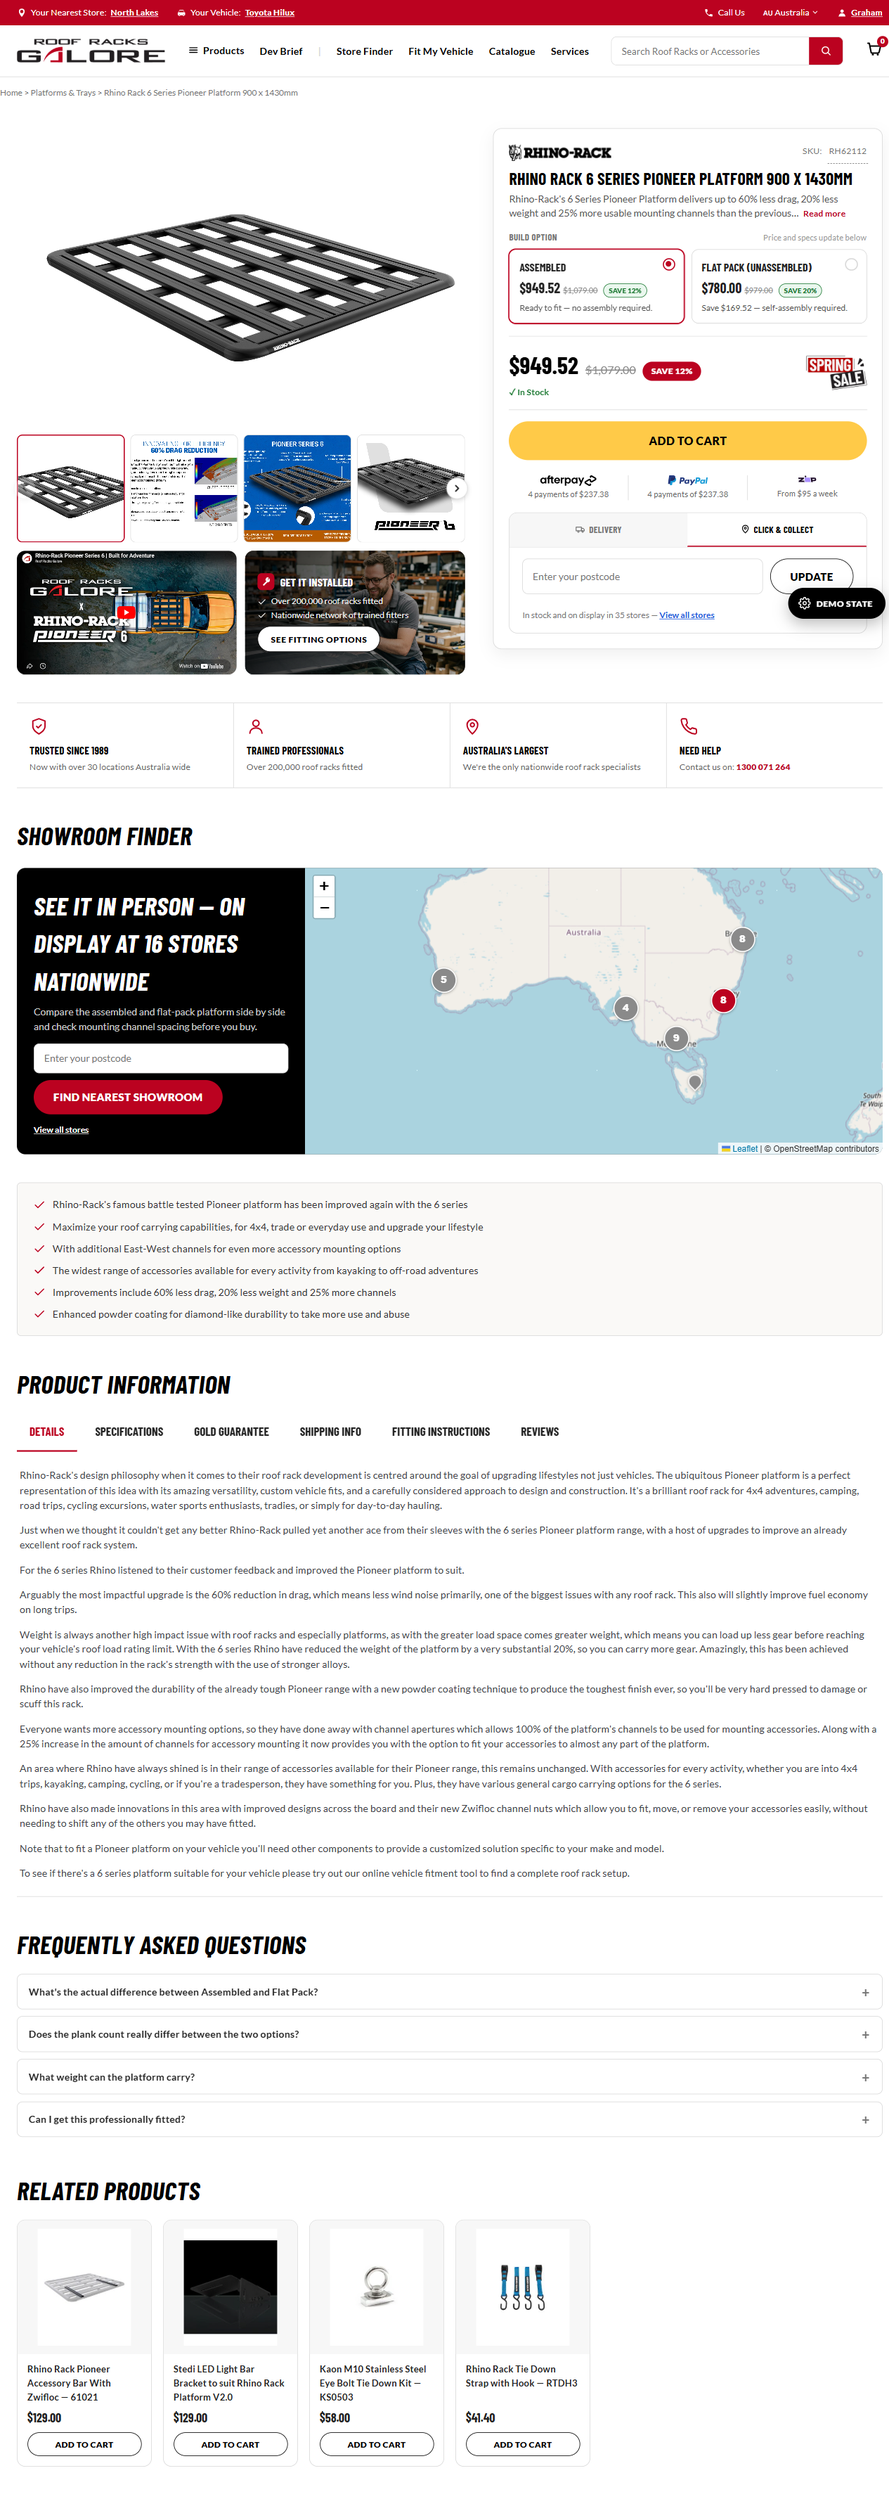
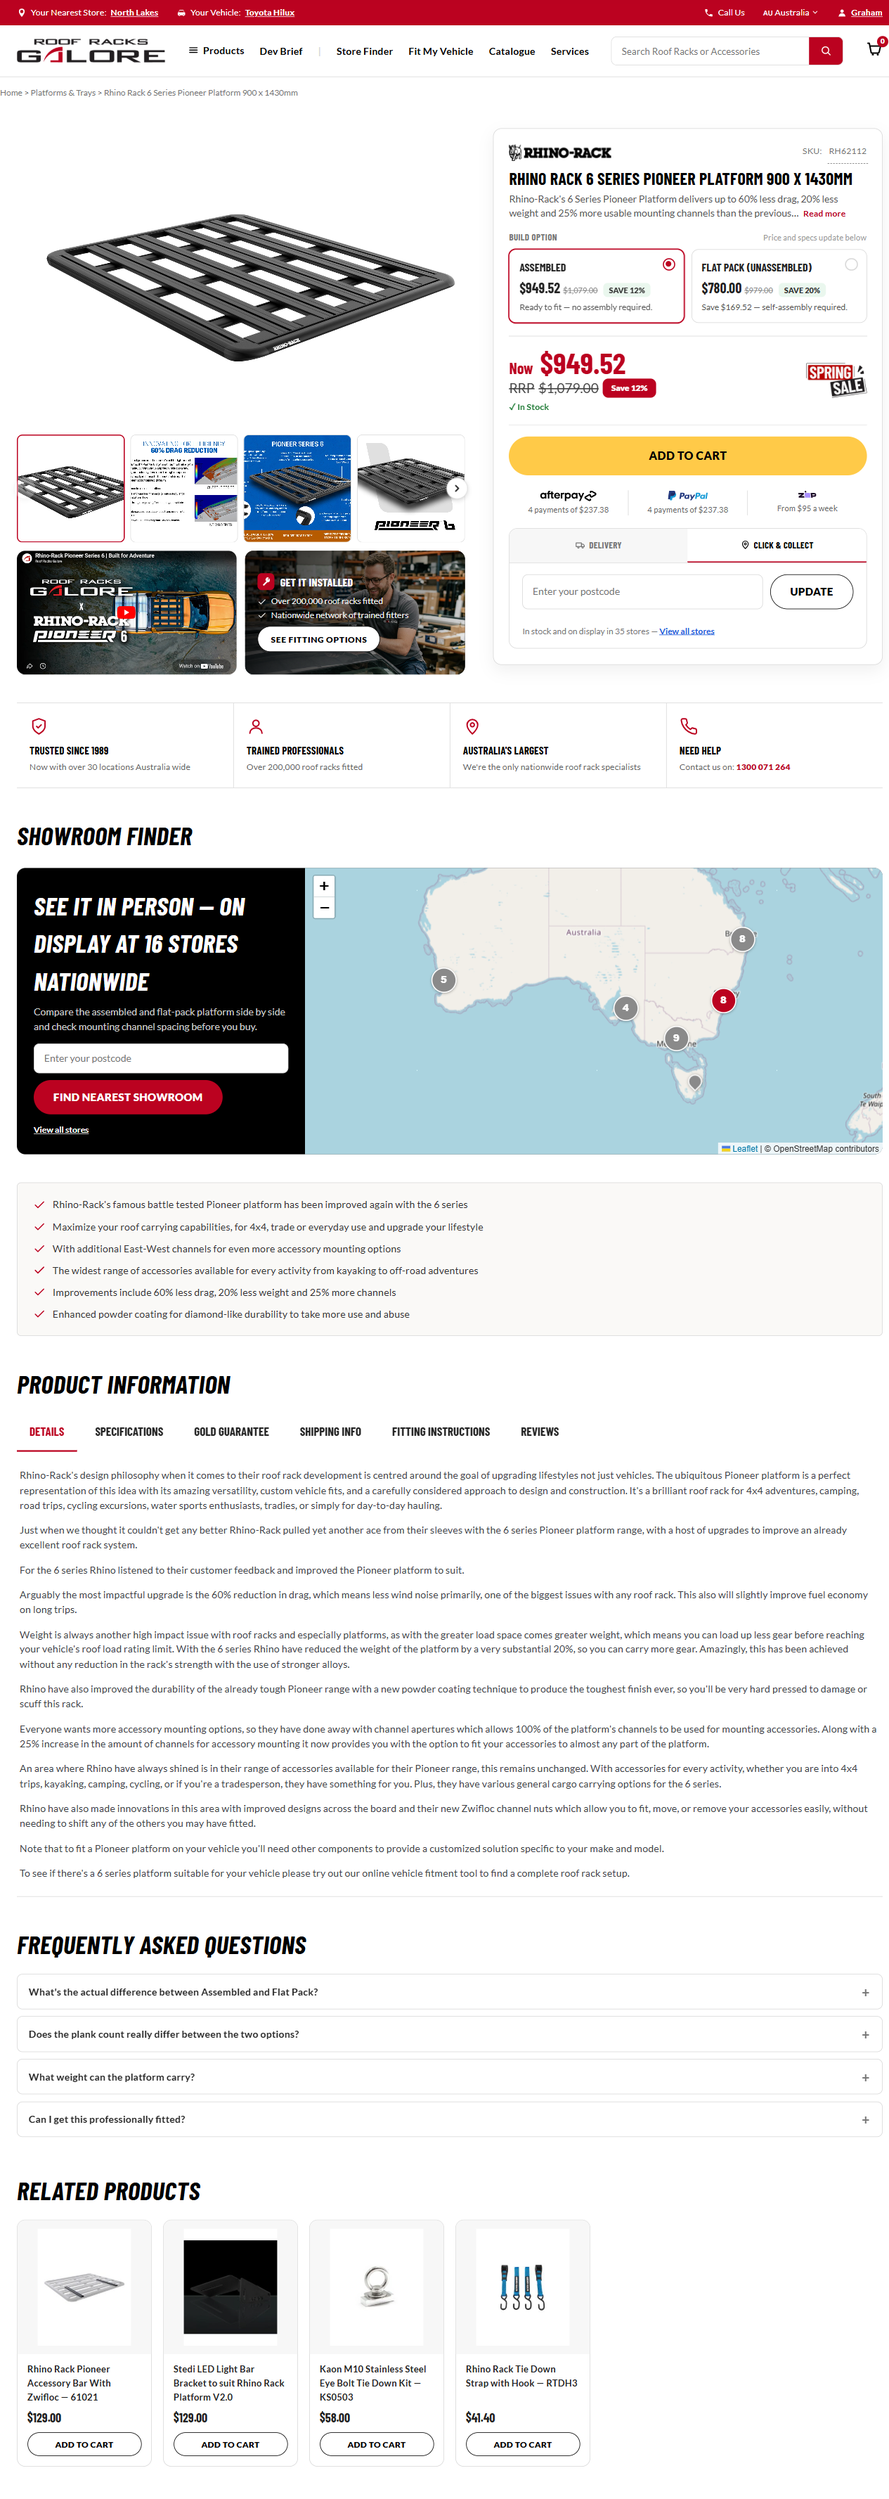
Re-sync DEVELOPER-BRIEF.md with everything built since the last mass-capture pass
Refreshes doc sections/screenshots left stale by features that shipped
after the last screenshot pass but before their own docs caught up:

- New §7.30 Price Block entry (Now/RRP/Save redesign had a
  PAGE-GLOSSARY.md entry but no Component Library writeup at all)
- All 10 §6 Page Layout screenshots recaptured (predated the pricing
  redesign, still showed the old single-line price)
- §7.16 Fitted Photos Gallery rewritten for the two-view (grid ->
  detail) slide-out drawer; text still described the old flat grid
- §7.28 Short description rewritten for the animated expand/collapse
  behaviour; text still described the old tab-jump
- §7.26/§7.27 Sticky Mobile Bar / Persistent Bar each gained a second
  screenshot showing the non-fitment-template variant
- §7.20 Package Contents (Grouped-Bundle): real screenshot replacing
  the long-held screenshot-pending.svg placeholder

Real bug found and fixed while recapturing §7.2/§7.3: the Rack Fit
Guarantee badge is an <svg>, and this browser doesn't reflect the
boolean `hidden` IDL property to the content attribute on SVG elements,
so `badge.hidden = ...` silently no-op'd and the badge stayed visible
in every fitment state instead of only "Fits." Fixed with
`toggleAttribute('hidden', ...)`, which works regardless of namespace.

Changed region(s): [[0.5549, 0.0937, 1.0, 0.2499]]

diff --git a/prototypes/_shared/shared.js b/prototypes/_shared/shared.js
@@ -104,7 +104,12 @@ function applyFitmentState(state, vehicle) {
     // actually confirmed to fit — hide it for "confirm your vehicle"/"doesn't fit".
     const badge = el.nextElementSibling;
     if (badge && (badge.classList.contains('rack-fit-badge') || badge.classList.contains('rack-fit-badge-icon'))) {
-      badge.hidden = state !== 'fits';
+      // toggleAttribute, not `badge.hidden = ...`: badge is an <svg>, and SVGElement doesn't
+      // reflect the boolean `hidden` IDL property to the content attribute in every browser —
+      // setting `.hidden` silently no-ops, leaving [hidden]{display:none} never applied and
+      // the badge visible in every fitment state (found 2026-09-12 while recapturing §7.2/7.3
+      // screenshots — this had never actually hidden in "doesn't fit"/"confirm your vehicle").
+      badge.toggleAttribute('hidden', state !== 'fits');
     }
   });
   // Add to Cart stays plain "Add To Cart" / primary style in every fitment state

diff --git a/DEVELOPER-BRIEF.md b/DEVELOPER-BRIEF.md
@@ -871,7 +871,7 @@ Every widget named in `PAGE-GLOSSARY.md`, one entry each, covering what it does,
 
 **Purpose:** tells the shopper immediately whether this exact product fits their saved vehicle — the single most important piece of information on a fitment-driven product page, so it sits as high as possible.
 
-**Typography:** heading uses the page's `h1`-adjacent styling within the card (bold, black); body text is standard Lato body copy. Card background/accent colour comes from the state tokens in Section 5 (`--rrg-fits`/`--rrg-unknown`/`--rrg-nofit`).
+**Typography:** heading is a bold black `<strong>` within the card, not a real heading tag; body text is standard Lato body copy. Card background/accent colour comes from the state tokens in Section 5 (`--rrg-fits`/`--rrg-unknown`/`--rrg-nofit`).
 
 **Region differences:** none — this is driven by the shopper's saved vehicle, not their region.
 
@@ -893,9 +893,9 @@ Every widget named in `PAGE-GLOSSARY.md`, one entry each, covering what it does,
 
 **Purpose:** reassures the shopper their fitment purchase is backed by a real guarantee, right at the point of the fitment decision.
 
-**Typography:** icon only, no visible text — the caption ("Peace of mind with our FREE Nationwide Rack Guarantee") lives in a `title` tooltip, not on-page text (client's explicit call — visible text read as too much).
+**Typography:** icon only, no visible text — the caption ("Peace of mind with our FREE Nationwide Rack Guarantee") lives in a `title` tooltip, not on-page text (client's explicit call — visible text read as too much). Hand-drawn placeholder vector icon (shield + checkmark), swappable for real client-approved artwork later; colour is tied to the `--rrg-fits` green token, the same token the Fitment Status card itself uses for a confirmed match.
 
-**Region differences:** none confirmed yet — not part of the Region Selector cascade.
+**Region differences:** none — the badge's colour is tied to the fitment-state token (`--rrg-fits`), not the region skin, so it doesn't vary by region.
 
 **Links:** clicking the badge (all 3 instances) jumps to and opens the Gold Guarantee tab, same tab-jump pattern as the star-rating badge (`data-jump-tab`/`initTabJumpLinks()`, see 7.17). The `title` tooltip is unchanged.
 
@@ -1127,13 +1127,15 @@ Every widget named in `PAGE-GLOSSARY.md`, one entry each, covering what it does,
 
 **Region differences:** none — not part of the Region Selector cascade.
 
-**Links:** "View All In-store Fitments (N)" is a real in-page link (jumps to/expands the full set); the CTA copy itself is fitment-count-aware, driven by Get It Installed (7.14).
+**Links:** "View All In-store Fitments (N)" opens a real two-view slide-out drawer (not an in-page expand) — a photo grid, then a per-fitment detail view when a photo is clicked. The CTA copy itself is fitment-count-aware, driven by Get It Installed (7.14).
 
 **States:**
 - Location (full page, red arrow): ![Fitted Photos Gallery — location](dev-brief-assets/fit-gallery-location.png)
 - Detail, full-width/non-red default (7 photos visible; nested placement shows 4): ![Fitted Photos Gallery — detail](dev-brief-assets/fit-gallery-detail.png)
+- Slide-out drawer, grid view (all 283 photos, opened via "View All In-store Fitments"): ![Fitted Photos Gallery — slide-out grid view](dev-brief-assets/fit-gallery-slideout-grid.png)
+- Slide-out drawer, detail view (clicking any grid photo opens this: "Browse Fitment N of 283 / Fit #" bar, Prev/Next, main photo + 4 thumbnails, the page's own real product title + vehicle line, and a live Rack Components list read from the page's own Package Contents rows): ![Fitted Photos Gallery — slide-out detail view](dev-brief-assets/fit-gallery-slideout-detail.png)
 
-**Notes:** a "Red background (live-site style)" toggle exists for stakeholder conversations expecting the old red-background treatment — default is non-red, per client direction.
+**Notes:** a "Red background (live-site style)" toggle exists for stakeholder conversations expecting the old red-background treatment — default is non-red, per client direction. Every fitment in the detail view shows the *same* real vehicle/components (no fabricated variety across vehicles) — the components list is read live from the page's own What's Included rows so the two can't drift apart; the detail view's "other angle" thumbnails reuse other real photos from the same 16-photo set rather than inventing new ones.
 
 ---
 
@@ -1218,7 +1220,7 @@ Each template also carries a `FAQPage` JSON-LD structured-data block (in `<head>
 
 **States:**
 - Vehicle-Specific (placeholder ×1 quantities — no real per-component quantity data exists yet): ![Package Contents — Vehicle-Specific](dev-brief-assets/package-contents-vehicle.png)
-- Grouped-Bundle (**real quantities**, taken verbatim from the live site's own "Bundle Includes" list): ![Package Contents — Grouped-Bundle](dev-brief-assets/screenshot-pending.svg) *(previous capture showed the Demo State Panel visible in frame — held pending the final mass-capture pass, see 0.1 rule 2)*
+- Grouped-Bundle (**real quantities**, taken verbatim from the live site's own "Bundle Includes" list): ![Package Contents — Grouped-Bundle](dev-brief-assets/package-contents-bundle.png)
 
 ---
 
@@ -1308,7 +1310,9 @@ Each template also carries a `FAQPage` JSON-LD structured-data block (in `<head>
 
 **Links:** none beyond the Add to Cart action itself.
 
-**States:** ![Sticky Mobile Bar](dev-brief-assets/sticky-mobile-bar.png) — on Vehicle-Specific this bar's fitment box drops to icon-only (no room once sharing space with the product thumbnail/name block added 2026-09-11).
+**States:**
+- Vehicle-Specific (thumbnail + name sharing space with a condensed, icon-only fitment box — no room for the full fitment label once both are present): ![Sticky Mobile Bar — Vehicle-Specific](dev-brief-assets/sticky-mobile-bar.png)
+- Other 4 templates (truncated name + price + Add to Cart, no fitment box): ![Sticky Mobile Bar — no fitment box](dev-brief-assets/sticky-mobile-bar-name.png)
 
 ---
 
@@ -1324,7 +1328,9 @@ Each template also carries a `FAQPage` JSON-LD structured-data block (in `<head>
 
 **Links:** Add to Cart action on every template; Vehicle-Specific's instance also carries the Rack Fit Guarantee badge's click-to-jump-to-Gold-Guarantee-tab action (see 7.3).
 
-**States:** ![Persistent Bar](dev-brief-assets/persistent-bar-detail.png) — Vehicle-Specific: product thumbnail + truncated name sharing space with a condensed fitment box (icon + short label, roughly half its full-detail width) + Rack Fit Guarantee badge. The other 4 templates: thumbnail + truncated name + price + Add to Cart only, no fitment box or badge.
+**States:**
+- Vehicle-Specific: product thumbnail + truncated name sharing space with a condensed fitment box (icon + short label, roughly half its full-detail width) + Rack Fit Guarantee badge: ![Persistent Bar — Vehicle-Specific](dev-brief-assets/persistent-bar-detail.png)
+- Other 4 templates: thumbnail + truncated name + price + Add to Cart only, no fitment box or badge: ![Persistent Bar — no fitment box](dev-brief-assets/persistent-bar-no-fitment.png)
 
 ---
 
@@ -1338,15 +1344,37 @@ Each template also carries a `FAQPage` JSON-LD structured-data block (in `<head>
 
 **Region differences:** none.
 
-**Links:** "Read more" is a real, working in-page jump — it checks the Details tab's own radio input directly and switches to it (`initTabJumpLinks()`), then scrolls there. A plain anchor jump wouldn't work here since the Tabs widget's accordion (7.17) has no JS of its own.
+**Links:** "Read more"/"See less" is an animated in-place expand/collapse (`toggleShortDesc()`), not a jump to the Details tab — clicking "Read more" reveals the full text in place with a "See less" link to re-collapse it back to the 2-line clamp.
 
-**States:** ![Short description — clamp + Read more](dev-brief-assets/short-desc-detail.png)
+**States:**
+- Collapsed (2-line clamp + "Read more"): ![Short description — collapsed](dev-brief-assets/short-desc-detail.png)
+- Expanded (full text + "See less"): ![Short description — expanded](dev-brief-assets/short-desc-expanded.png)
 
 ---
 
 ### 7.29 Demo State Panel
 
 **Not part of the shipped design — reviewer/QA tooling only, do not build this in Magento.** A floating "Demo State" button (bottom-right, hidden on mobile) expanding into a panel that lets a reviewer preview every simulated product state (video/sale/stock/shipping/collect/special order/ex-demo/showroom/fitted-option/gallery-placement/session-vehicle/cart-contents) without needing real data for each. Every screenshot in this document was captured with this panel closed — see Section "Screenshot capture process" convention. Mentioned here only so a developer who notices it in the prototype's source knows to leave it out of the production build.
+
+---
+
+### 7.30 Price Block
+
+**Location:** Decision Panel, directly below the title/short description — all 5 templates.
+
+**Purpose:** the price + stock-status area (`.price-block`) — redesigned 2026-09-12 off a client-supplied Figma reference to a stacked two-line layout that reads clearly at a glance: "Now" price on top, struck-through "RRP" + a Save-percent badge below.
+
+**Typography:** `.price-line-now` ("Now" label + `.price-now`, both red when on sale, `line-height:1`) above `.price-line-was` ("RRP" label + struck-through `.price-was` + `.badge-save`, both the label and price sharing identical dark-grey `#434343`/Lato-400 styling so the whole "RRP $X" reads as one continuous struck-through phrase — the RRP price is sized to match `.badge-save`'s own rendered height, and the two are centre-aligned). Off-sale, both labels and the whole RRP line disappear entirely, leaving a plain black price (red is reserved for the sale contrast, not every regular price).
+
+**Region differences:** none beyond the standard currency/price-token inheritance already covered in Section 4 — the redesign is purely a layout change, region cascade untouched.
+
+**Links:** none.
+
+**States:**
+- On-sale (desktop): ![Price Block — on-sale, desktop](dev-brief-assets/price-block-desktop-onsale.png)
+- Off-sale (desktop, plain black price, no labels): ![Price Block — off-sale, desktop](dev-brief-assets/price-block-desktop-offsale.png)
+- Mobile, on-sale — price centred as a unit; the Sale Tag moves off the price block entirely onto the top-right corner of the main gallery image (a corner ribbon reads better once price content no longer runs the block's full width): ![Price Block — mobile, on-sale, gallery Sale Tag](dev-brief-assets/price-block-mobile-onsale.png)
+- The condensed Sticky Mobile Bar (7.26) / Persistent Bar (7.27) price is adapted, not the full stacked treatment — same red/dark-grey colour language on the existing single-line price, no labels/badge (no room).
 
 ---
 

diff --git a/spec.md b/spec.md
@@ -722,6 +722,15 @@ Brenton spotted these live while reviewing the Region Selector screenshots just 
 - **2026-09-12: the final screenshot pass (Section 10 item 33) — expanded mid-session into a full rebuild, not just a recapture.** Section 4's stale "not built yet" text fixed throughout (status banner, cascade table, 4.4/4.5, `applyRegion()` reference comments, 4.6 rewritten past-tense); Sections 2–4's screenshots recaptured for real (Reviews tab, star-rating badge, Showroom map, all 9 Region Selector shots). Then, per Brenton's expanded ask: **new Section 5** (Typography & colour reference — the real shared type scale and colour tokens, so later sections don't repeat the same spec 20+ times) and **new Section 6** (Page Layout, one subsection per template — section order, absent widgets, general desktop/mobile proportions, a real full-page desktop+mobile screenshot each). **New Section 7 — Component Library, 29 entries**, one per widget named in `PAGE-GLOSSARY.md` (plus a few newer ones it doesn't cover yet — Discontinued, Cart-Conflict, Short Description), each with real screenshots, typography, region differences, and honest real-vs-placeholder link status. Full item-33 write-up in Section 10 above has the complete detail (screenshot counts, process notes, real gaps flagged). ~78 screenshots total in `dev-brief-assets/` now. Not pushed; `DEVELOPER-BRIEF.md`'s build-status framing otherwise untouched beyond what's described — still gated on Brenton's separate sign-off before anything further changes.
 - **2026-09-12 (Section 12 bulk batch):** Text corrections across the brief from the dev-brief review backlog (Section 12/Section 9 above have the complete detail) — §6.1/6.2/6.3/6.5/6.4/§7.27 updated for the Persistent Bar's rollout to all 5 templates; §6.2/6.3/§7.5/§7.6 reworded so variant/colour switching correctly describes real production navigation rather than the prototype's in-page demo swap; §6.4's "kits" → "Vehicle Rack Sets"; §7.3 badge location + new click-to-Gold-Guarantee-tab Links line; §7.4/§7.18 gained Rackit data-source notes; §7.17 gained a Gold Guarantee content-source note and a Reviews-tab cross-reference; §7.9 and §7.7 corrected for the real on-display/DC-tab region behaviour; §7.15 corrected to match actual (fully-hidden) video-slot behaviour; §7.19/§7.22 now document intended Related-Products/Discontinued-alternates click-through; §7.20 rewritten to drop an incorrect claim and an unnecessary named reference; §7.22 notes the stock-status-line is now hidden (not duplicated) in the Discontinued state. A global pass (0.1, 4.6, Section 3, §7.20, and elsewhere) removed backlog-item-number citations, meeting references, and named confirmations, restating each as current, correct behaviour — this was itself one of the batch's items (spec.md Section 12 item 14). Not pushed; brief's own build-status framing otherwise untouched, still gated on Brenton's separate sign-off.
 - **2026-09-12 (Section 12 item 31 scoped via `/backlog`):** Added new **Section 8 — SEO & Structured Data**, scoping the previously-unscoped "full-page SEO + AEO pass" into 7 concrete findings: missing meta description, missing canonical URL, missing `BreadcrumbList` schema, prototype-style `<title>` tags, a few empty `alt=""` attributes, `Product` schema's `priceCurrency` hardcoded to AUD and not following the Region Selector (flagged separately as region-specific), and `aggregateRating`/`Review` schema — not actually data-blocked, since the real REVIEWS.io rating/review-count data the star-rating badge (§2.2) already fetches live could drive it. Documentation only, written directly per Brenton's explicit sign-off for this item — nothing built in `prototypes/`. Not pushed; still gated on Brenton's separate sign-off before anything further changes.
+- **2026-09-12 (post-items-17/20/24/38 re-sync, Brenton's explicit ask — "replace everything we've worked on since," not just the 4 backlog screenshot gaps):** Refreshed every part of the brief left stale by features built after the last mass-capture pass but before their own screenshots/text were revisited:
+  - **New §7.30 — Price Block**, documenting the Now/RRP/Save redesign (Section 12 item 23) in full, which had a `PAGE-GLOSSARY.md` entry but no Component Library writeup at all. 3 new screenshots (on-sale/off-sale desktop, mobile with the gallery-mounted Sale Tag).
+  - **All 10 §6 Page Layout screenshots recaptured** (desktop + mobile × 5 templates) — every one predated the pricing redesign and still showed the old single-line price.
+  - **§7.16 Fitted Photos Gallery rewritten** — text still described the old flat in-page grid; didn't mention the two-view (grid → detail, Prev/Next, live Rack Components list) slide-out drawer built the same day (item 26). 2 new screenshots added.
+  - **§7.2/§7.3 Fitment Status / Rack Fit Guarantee screenshots recaptured** — predated the badge's icon swap (item 12). **Real bug found and fixed while recapturing, not previously caught:** `applyFitmentState()` (`shared.js`) hid the badge via `badge.hidden = state !== 'fits'`, but the badge is an `<svg>` and this browser doesn't reflect the boolean `hidden` IDL property to the actual `hidden` content attribute on SVG elements — so the setter silently no-opped and the badge stayed visible in every fitment state (Doesn't Fit, Confirm Your Vehicle), contradicting §7.3's own documented behaviour and every prior session's "verified — badge correctly hides" Playwright checks (which had only asserted the IDL property, not the resulting computed `display`). Fixed with `badge.toggleAttribute('hidden', state !== 'fits')`, which works correctly regardless of namespace; re-verified via `getComputedStyle` (not just the IDL property this time) across all 3 states on all 3 badge instances (Decision Panel, Sticky Mobile Bar, Persistent Bar). §7.3's stale "region differences: none confirmed yet" line also corrected to state plainly that the badge's colour is tied to the `--rrg-fits` token, not region.
+  - **§7.28 Short description rewritten** — text still described the old "Read more jumps to the Details tab" behaviour; it's actually been an animated in-place expand/collapse (`toggleShortDesc()`) since item 40. New "expanded" state screenshot added.
+  - **§7.26/§7.27 Sticky Mobile Bar / Persistent Bar gained a second screenshot each** — both widgets now have two visually distinct variants across templates (Vehicle-Specific's fitment-box version vs. the other 4's plain thumbnail+name+price+CTA version, the latter added by items 1/39) but only the Vehicle-Specific variant had ever been captured.
+  - **§7.20 Package Contents (Grouped-Bundle)** — real screenshot captured, replacing the `screenshot-pending.svg` placeholder that had been held since a Demo State Panel framing bug (Section 12 item 34).
+  - All new captures verified with the Demo State Panel FAB hidden from frame; `dev-brief-viewer.html` reloaded and checked (`naturalWidth`) — 84 images, zero broken. Not pushed; `DEVELOPER-BRIEF.md`'s own build-status framing otherwise untouched, still gated on Brenton's separate sign-off for anything beyond this kind of screenshot/text sync.
 
 ## 12. Dev-brief review backlog — 2026-09-12 (Brenton's first pass over `DEVELOPER-BRIEF.md`)
 
